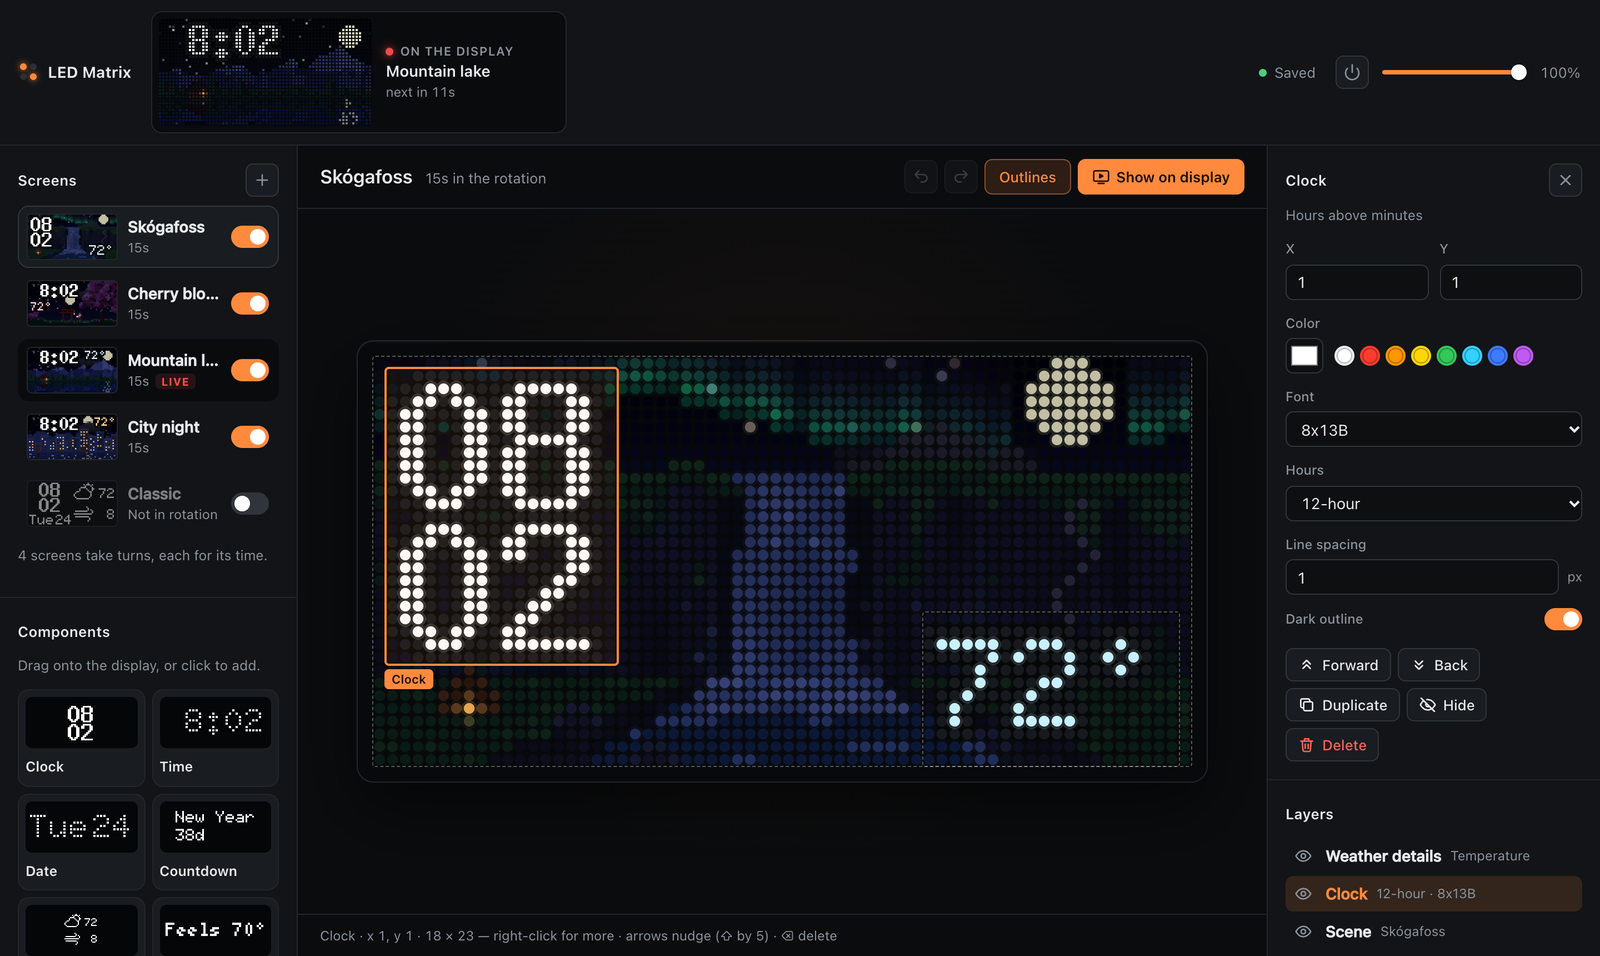
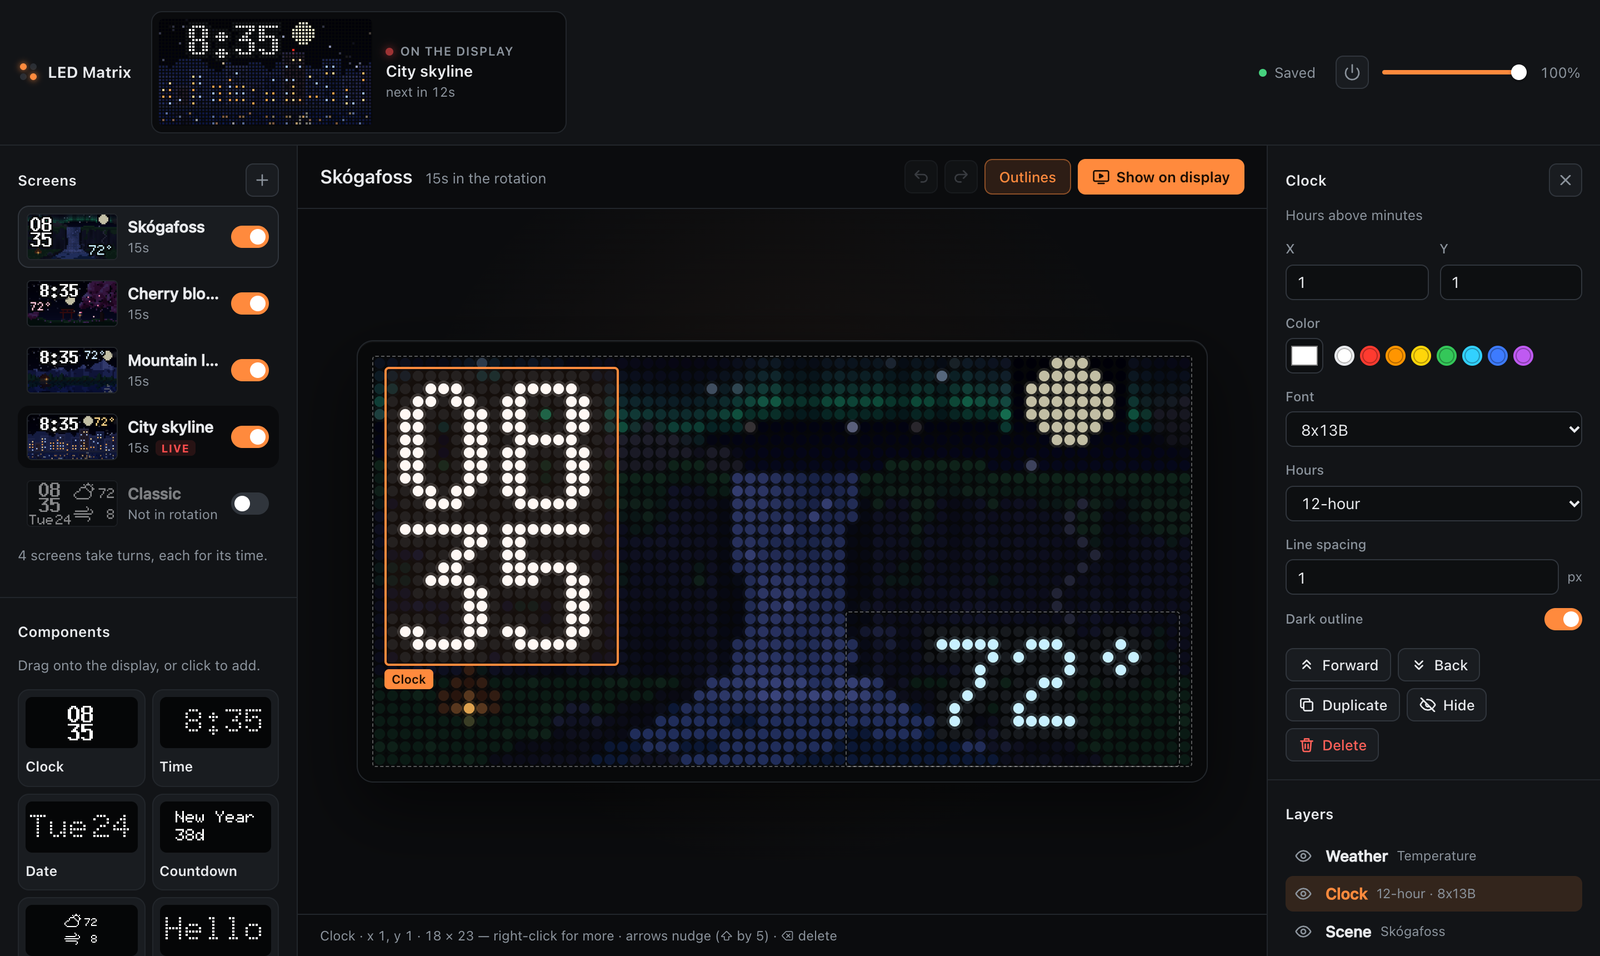
README: the merged Weather component and the New screen picker
Describes the Weather component's Show setting and the live New screen
picker, with a fresh screenshot of the picker and of the editor, and the
gallery captions updated for City skyline.

diff --git a/README.md b/README.md
@@ -10,7 +10,7 @@ Every picture here was drawn by the same code that drives the LEDs (`docs/render
 
 ## Scenes
 
-Four prebuilt screens put the time and temperature over an animated scene. Add one from the + next to Screens on the management page.
+Four prebuilt screens put the time and temperature over an animated scene. Add one from the + next to Screens on the management page, which shows them all live.
 
 <table>
   <tr>
@@ -26,7 +26,7 @@ Four prebuilt screens put the time and temperature over an animated scene. Add o
     <td><img src="docs/skogafoss-night.gif" alt="Skógafoss at night under the northern lights and a full moon"></td>
   </tr>
   <tr>
-    <td><b>City night</b>: a skyline by a river. Windows light up one by one as it gets dark, change through the night, and wobble in the water. A warning light blinks on the tallest tower.</td>
+    <td><b>City skyline</b>: a skyline by a river. Windows light up one by one as it gets dark, change through the night, and wobble in the water. A warning light blinks on the tallest tower.</td>
     <td><b>Skógafoss</b>: Iceland's great waterfall, with spray rising from the pool and a tent glowing by the river. A rainbow hangs in the mist on sunny days, and the northern lights come out on clear nights. This is the screen a new display starts with.</td>
   </tr>
 </table>
@@ -37,7 +37,7 @@ Four prebuilt screens put the time and temperature over an animated scene. Add o
   <img src="docs/weather.gif" width="680" alt="Four scenes at once: rain over the mountain lake, snow on the cherry blossom, a thunderstorm with lightning over the city, and fog at Skógafoss">
 </p>
 
-Scenes use the same OpenWeatherMap data as the weather components, checked every 15 minutes:
+Scenes use the same OpenWeatherMap data as the Weather component, checked every 15 minutes:
 
 - **Clear**: the sun by day; the moon in its real phase and twinkling stars by night, with the odd shooting star
 - **Clouds**: a few drifting clouds, up to a gray overcast sky
@@ -69,22 +69,22 @@ The sky goes from night to sunrise, day, sunset and dusk, timed by today's sunri
 Open `http://<the Pi's address>:5000` in a browser on your network (for example http://192.168.1.31:5000). It has no login, so only run it on a network you trust.
 
 - **Screens**: the display shows one screen at a time. Screens with "Take turns" on are shown in order, each for its time. "Show on display" puts the screen you're editing on now.
-- **Prebuilt screens**: the + next to Screens adds a blank screen or one of the prebuilt ones. Once added it's an ordinary screen you can change.
+- **New screens**: the + next to Screens lets you start from a blank screen or pick a prebuilt one. The prebuilt previews are live, so each shows the time and weather right now, moving just as it will on the display. Once added it's an ordinary screen you can change.
 - **Scenes**: the Scene component is the animated background behind the prebuilt screens, and you can put one behind any screen. It always goes under everything else. Its settings pick the scene, and can fix the weather or time of day instead of following them, which is handy for trying each look (the editor redraws it once a second; the display runs it at full speed). A brightness setting dims just the background.
-- **Components**: drag them from the list onto the display, then drag them around. Click one to change its settings (font, color, format, and so on). Arrow keys nudge it one LED at a time. There are clocks, the date, a countdown, the weather (now, the temperature, details such as feels-like or sunset, and a forecast), text that can scroll, images and boxes. The clock, time, date, countdown and weather details have a "Dark outline" setting that keeps them readable over a bright sky.
+- **Components**: drag them from the list onto the display, then drag them around. Click one to change its settings (font, color, format, and so on). Arrow keys nudge it one LED at a time. There are clocks, the date, a countdown, the weather, text that can scroll, images and boxes. The Weather component's "Show" setting picks what it shows: the weather icon with the temperature and wind, just the temperature, one detail (feels like, high and low, humidity, wind, sunrise or sunset), or the forecast for the next few days or hours. Everything with text has a "Dark outline" setting that keeps it readable over a scene or a bright sky.
 - **Images**: drop an image file onto the display, or upload one in an Image component's settings. PNG, JPG, GIF and WebP work, and animated GIFs play on the display. The weather icons are there to use too, in any color.
 - **Right-click** a component, an empty spot on the display, or a screen for shortcuts: copy and paste (also between screens), layer order, centering, hide, delete, or adding a component at that spot.
 - **Live view**: the top bar shows what the display is showing right now, and has the brightness control.
 
 <p align="center">
-  <img src="docs/prebuilt-menu.png" width="560" alt="The + menu next to Screens, offering a blank screen or one of the four prebuilt screens, each with a live preview">
+  <img src="docs/new-screen.png" width="620" alt="The New screen picker: a Blank screen option, and the four prebuilt screens as live previews showing the current time and weather">
 </p>
 
 Changes save as you make them, and the display picks them up right away. ⌘Z / Ctrl+Z undoes them. The editor previews are drawn by the same code that drives the LEDs, so they match the panel pixel for pixel.
 
 The layout is saved in `data/display.json` and uploaded images in `data/images/`. Git ignores `data/`, so deploys don't touch it. Delete `data/display.json` to go back to the default layout: the Skógafoss screen, plus the original clock, date and weather as a "Classic" screen that's out of the rotation.
 
-The weather, weather details and forecast components all use the OpenWeatherMap settings in `.env`. Until weather has loaded, the editor shows sample weather so you can lay things out, and the display leaves those spots blank.
+The Weather component and the scenes use the OpenWeatherMap settings in `.env`. Until weather has loaded, the editor shows sample weather so you can lay things out, and the display leaves those spots blank.
 
 ### Running it on your computer
 
